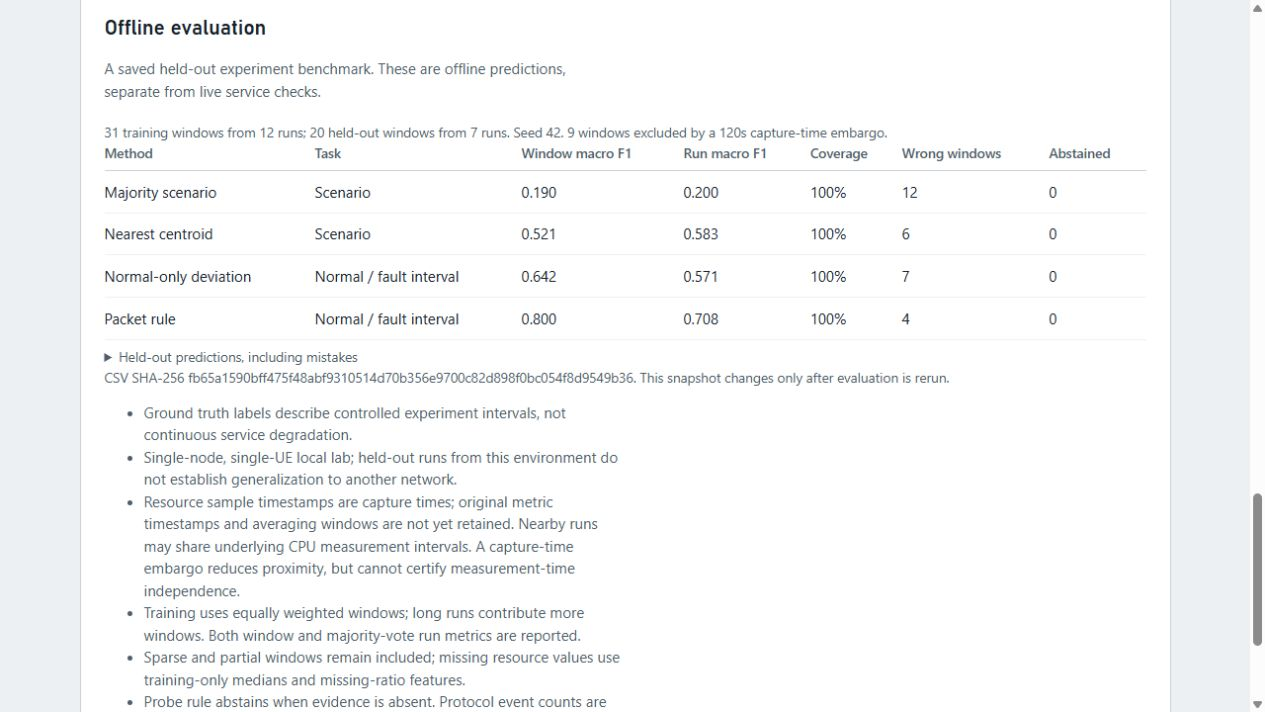
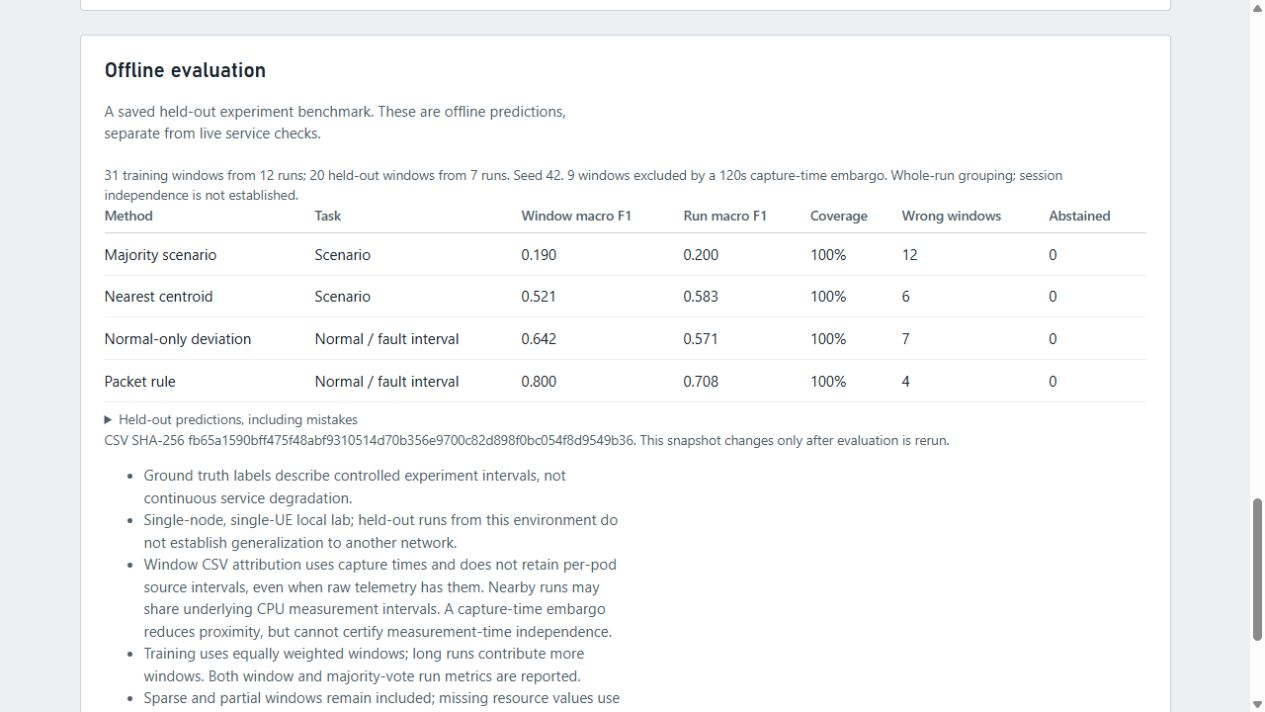
Publish verified preview evidence and current dashboard captures (#64)

diff --git a/docs/progress/2026-11-09.md b/docs/progress/2026-11-09.md
@@ -21,6 +21,8 @@ The [v0.2.0 preview](https://github.com/lazypanic999/CorePulse/releases/tag/v0.2
 
 The v0.2.4 container maintenance cut updates its bundled kubectl to v1.35.10 and adds ordinary image-build/execution CI with networking disabled. It does not upgrade or reconfigure the lab's Kubernetes server, or change the native evaluator.
 
+The [v0.2.4 verification summary](../releases/v0.2.4-verification.json) records downloaded archive hashes, actual native packaged execution, a digest-bound SPDX 2.3 container attestation with 92 packages, matching native notices and the original numerical regression. The running dashboard uses the published v0.2.4 binary; the refreshed screenshots show its healthy gateway and unchanged offline scores. The SBOM is an inventory, not a complete container license review or security certification.
+
 ## Measured result and limits
 
 The [strict cohort card](../datasets/2026-11-09-local-preview.md) documents 12 normal, five AMF and five UPF runs. Its 60 windows yielded 31 training, 20 held-out and nine purged windows. Every fault was followed by a verified ordered reset. The final post-campaign observation had N2/N4 up and 2/2 gateway replies; this is not proof of Internet access.
@@ -38,8 +40,8 @@ Two [staged UPF recovery diagnostics](../experiments/2026-11-09-upf-recovery.md)
 ## Next work
 
 1. Diagnose source-frame reuse/age and define an explicit measurement-time policy ([#44](https://github.com/lazypanic999/CorePulse/issues/44), no-cluster contributor issue).
-2. Collect genuinely separate, predeclared sessions with scenario support and a dataset card, then use the implemented whole-session holdout. The original unknown-session cohort cannot qualify retroactively ([session guide](../session-holdouts.md)).
+2. Collect genuinely separate, predeclared sessions with scenario support and a dataset card ([#62](https://github.com/lazypanic999/CorePulse/issues/62)), then use the implemented whole-session holdout. The original unknown-session cohort cannot qualify retroactively ([session guide](../session-holdouts.md)).
 3. Continue the UPF/PFCP restart investigation ([#22](https://github.com/lazypanic999/CorePulse/issues/22)) and collect predeclared independent cohorts after any configuration change.
-4. Extend the fault catalog only with reviewed scope, durable rollback ownership and interruption tests. The [N3 loss design issue](https://github.com/lazypanic999/CorePulse/issues/57) records read-only tool/capability gaps and an explicitly directional proposal. The current injector supports AMF/UPF `pod_crash`; packet loss, latency and SCTP interruption are not implemented.
+4. Extend the fault catalog only with reviewed scope, durable rollback ownership and interruption tests. [Recovery-helper ownership (#61)](https://github.com/lazypanic999/CorePulse/issues/61) and the [N3 loss design issue (#57)](https://github.com/lazypanic999/CorePulse/issues/57) track prerequisites and an explicitly directional proposal. The current injector supports AMF/UPF `pod_crash`; packet loss, latency and SCTP interruption are not implemented.
 
 The next model comparison should use new predeclared data and retain the existing poor result. The synthetic walkthrough is a contributor tool, never a replacement for measured evidence.
